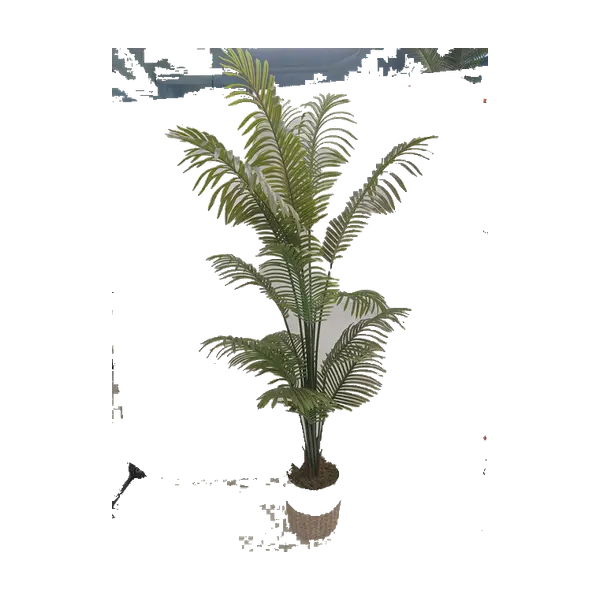
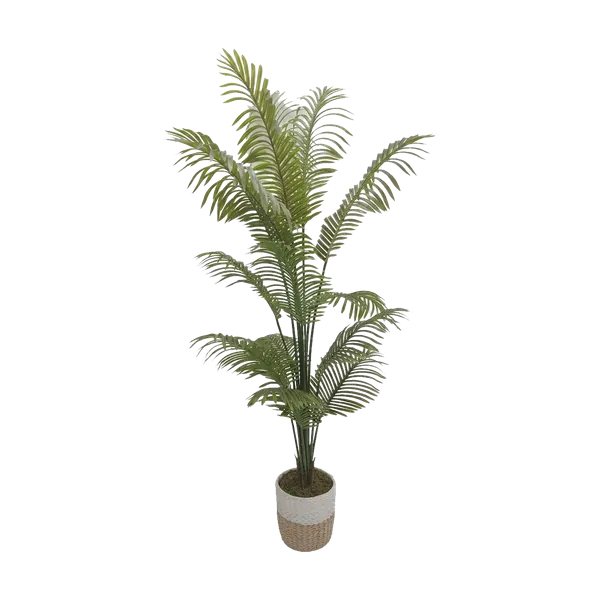
fix(assets): deploy crystal-clean transparent AI-generated plant cutouts and preserve master originals

diff --git a/scripts/clean-cutouts.js b/scripts/clean-cutouts.js
@@ -136,6 +136,22 @@ async function removeBackgroundAndFit(cfg) {
     }
   }
 
+  // Eliminate any trapped background islands between leaves for foliage plants
+  if (cfg.name !== "White Rose Plant") {
+    for (let i = 0; i < w * h; i++) {
+      if (isBg[i] === 0) {
+        const r = data[i * ch];
+        const g = data[i * ch + 1];
+        const b = data[i * ch + 2];
+        const minVal = Math.min(r, g, b);
+        const sat = Math.max(r, g, b) - minVal;
+        if (minVal >= 215 && sat <= 14) {
+          isBg[i] = 1;
+        }
+      }
+    }
+  }
+
   // Build alpha channel with edge smoothing (alpha matting)
   const alphaBuffer = Buffer.alloc(w * h * 4);
 
